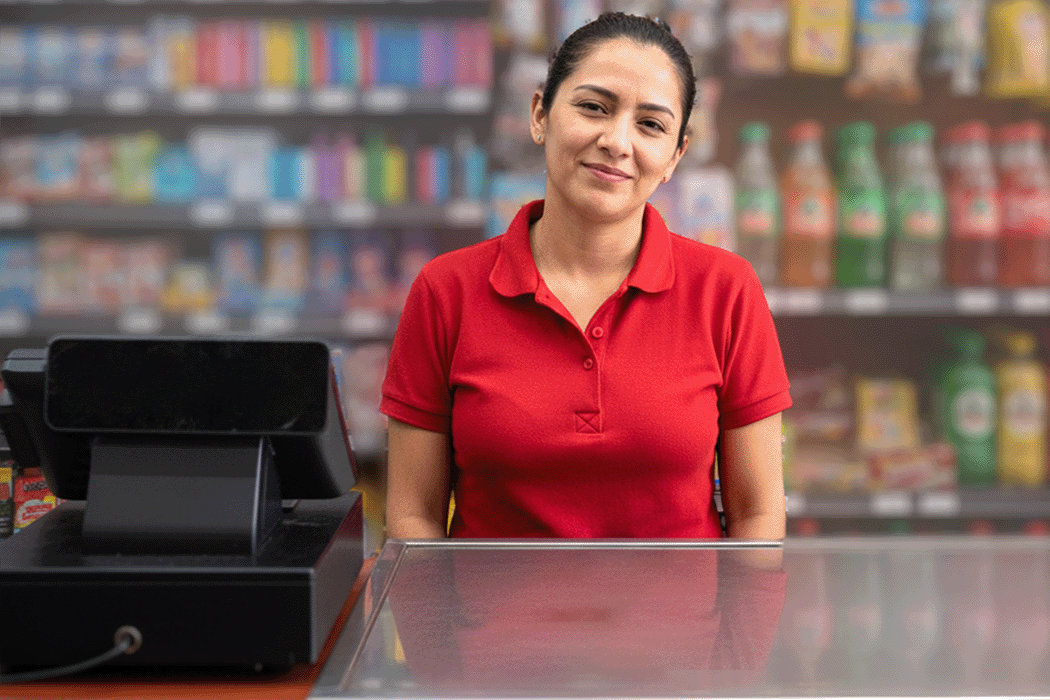
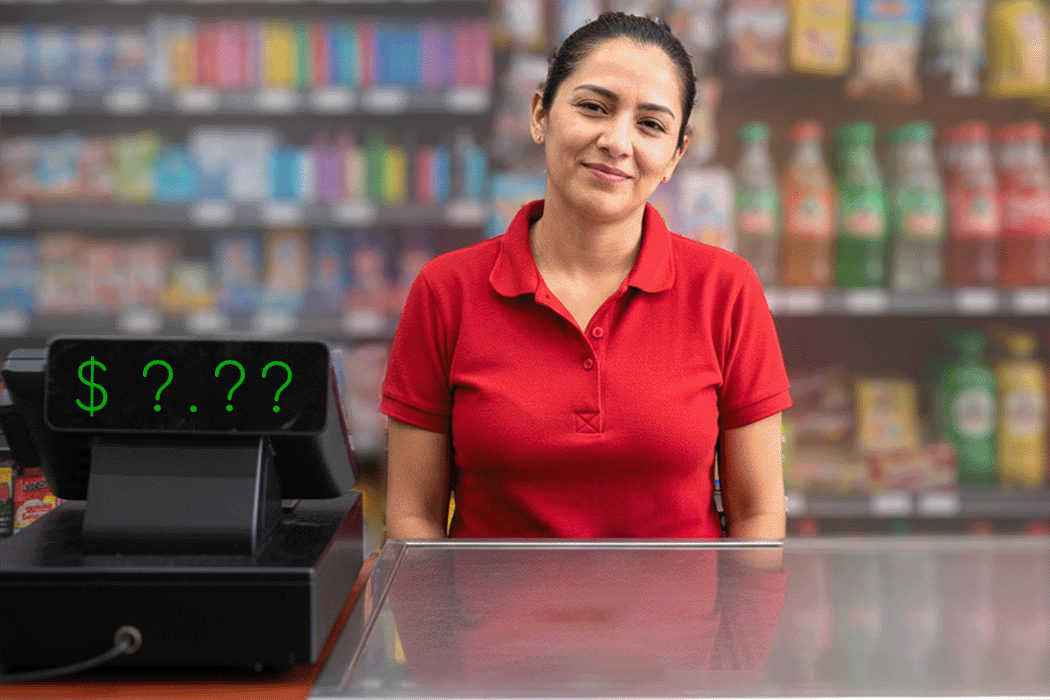
fixes and add analytics

diff --git a/components/games/ShoppingGame.js b/components/games/ShoppingGame.js
@@ -190,7 +190,8 @@ export default function ShoppingGame({ game, onComplete }) {
       const priceWords = priceToSpanishWords(price);
       const priceText = `cuesta ${priceWords}`;
       // Use the woman voice model specifically for the shopping game
-      await playTTS(priceText, process.env.NEXT_PUBLIC_DEEPGRAM_VOICE_WOMAN);
+      const womanVoice = process.env.NEXT_PUBLIC_DEEPGRAM_VOICE_WOMAN || "aura-2-estrella-es";
+      await playTTS(priceText, womanVoice);
     } catch (error) {
       console.error('TTS failed, using fallback:', error);
       const priceWords = priceToSpanishWords(price);
@@ -264,9 +265,9 @@ export default function ShoppingGame({ game, onComplete }) {
   // Show start screen if user hasn't interacted yet
   if (!hasUserInteracted) {
     return (
-      <div className="min-h-screen bg-gray-50 flex justify-center p-4 pt-8">
+      <div className="bg-gray-50 flex justify-center p-4 pt-8">
         <div className="max-w-4xl w-full flex justify-center">
-          <div className="bg-white rounded-2xl shadow-xl overflow-hidden w-3/4">
+          <div className="w-3/4">
             {/* Image Area with Rounded Corners */}
             <div className="relative w-full aspect-[3/2] bg-gray-100 overflow-hidden rounded-2xl shadow-xl">
               <div className="absolute inset-0">
@@ -293,11 +294,9 @@ export default function ShoppingGame({ game, onComplete }) {
                 </motion.div>
               )}
               
-            </div>
-
-            {/* Start Screen Overlay */}
-            <div className="absolute inset-0 bg-white/80 backdrop-blur-sm flex items-center justify-center rounded-2xl">
-              <div className="text-center space-y-4 max-w-sm mx-4">
+              {/* Start Screen Overlay */}
+              <div className="absolute inset-0 bg-white/80 backdrop-blur-sm flex items-center justify-center rounded-2xl min-h-full">
+              <div className="text-center space-y-4 max-w-sm mx-4 flex flex-col justify-center">
                 <div>
                   <h2 className="text-2xl font-bold text-gray-800 mb-2">
                     Tienda Checkout - Price Listening
@@ -322,6 +321,7 @@ export default function ShoppingGame({ game, onComplete }) {
                   <Volume2 className="w-4 h-4 mr-2" />
                   Start Game
                 </Button>
+              </div>
               </div>
             </div>
           </div>
@@ -356,7 +356,7 @@ export default function ShoppingGame({ game, onComplete }) {
   }
 
   return (
-    <div className="min-h-screen bg-gray-50 flex justify-center p-4 pt-8">
+    <div className="bg-gray-50 flex justify-center p-4 pt-8">
       <div className="max-w-4xl w-full flex flex-col items-center">
         {/* Progress Bar */}
         <div className="mb-6 w-full max-w-3xl">
@@ -373,7 +373,7 @@ export default function ShoppingGame({ game, onComplete }) {
         </div>
 
         {/* Game Area */}
-        <div className="bg-white rounded-2xl shadow-xl overflow-hidden w-3/4">
+        <div className="relative bg-white rounded-2xl shadow-xl overflow-hidden w-3/4">
           {/* Image Area with Rounded Corners */}
           <div className="relative w-full aspect-[3/2] bg-gray-100 overflow-hidden rounded-2xl">
             <div className="absolute inset-0">
@@ -401,7 +401,7 @@ export default function ShoppingGame({ game, onComplete }) {
             )}
             
             {/* LCD Display */}
-            <div 
+            {/* <div 
               className="absolute text-green-400 font-mono 
               text-3xl font-bold flex items-center justify-center
               top-[51%] left-[9%] rotate-1"
@@ -413,7 +413,7 @@ export default function ShoppingGame({ game, onComplete }) {
               ) : (
                 <span className="text-green-300">$ ?.??</span>
               )}
-            </div>
+            </div> */}
 
             {/* Replay Audio Button - Top Right Overlay */}
             <div className="absolute top-4 right-4 z-20">

diff --git a/components/verbs/CondensedConjugationDisplay.tsx b/components/verbs/CondensedConjugationDisplay.tsx
@@ -110,7 +110,20 @@ export default function CondensedConjugationDisplay({
     }
   };
 
-  // Get conjugations for selected mood
+  // Define the tense order as specified - using actual database tense names
+  const tenseOrder = [
+    'Past Perfect',
+    'Preterite', // This is "Past Simple" in the database
+    'Imperfect',
+    'Present Perfect',
+    'Present',
+    'Conditional',
+    'Conditional Perfect',
+    'Future',
+    'Future Perfect'
+  ];
+
+  // Get conjugations for selected mood with proper ordering
   const getConjugationsForMood = (moodId: string) => {
     if (moodId === 'Otros') {
       // For "Other" mood, show gerund and past participle
@@ -137,7 +150,29 @@ export default function CondensedConjugationDisplay({
         }
       ];
     }
-    return verb.conjugations.filter(conj => conj.mood === moodId);
+    
+    const conjugations = verb.conjugations.filter(conj => 
+      conj.mood === moodId && 
+      conj.tense_english !== 'Preterite (Archaic)' // Never show Preterite (Archaic)
+    );
+    
+    // Sort conjugations according to the specified order
+    return conjugations.sort((a, b) => {
+      const aIndex = tenseOrder.indexOf(a.tense_english);
+      const bIndex = tenseOrder.indexOf(b.tense_english);
+      
+      // If both tenses are in the order array, sort by their position
+      if (aIndex !== -1 && bIndex !== -1) {
+        return aIndex - bIndex;
+      }
+      
+      // If only one is in the order array, prioritize it
+      if (aIndex !== -1) return -1;
+      if (bIndex !== -1) return 1;
+      
+      // If neither is in the order array, maintain original order
+      return 0;
+    });
   };
 
   const currentConjugations = getConjugationsForMood(selectedMood);

diff --git a/app/verbs/page.js b/app/verbs/page.js
@@ -191,12 +191,12 @@ function DefaultMainContent({ t }) {
     { tense: "Past Simple", text: "I ate", color: "past", icon: Calendar },
     { tense: "Imperfect", text: "I was eating", color: "past", icon: CalendarSync },
     { tense: "Present Perfect", text: "I have eaten", color: "present", icon: Circle },
-    // { tense: "Present Continuous", text: "I am eating", position: "top" },
     { tense: "Present Simple", text: "I eat", color: "present", icon: CircleDot },
     { tense: "Conditional", text: "I would eat", color: "conditional", icon: Orbit },
     { tense: "Conditional Perfect", text: "I would have eaten", color: "conditional", icon: Orbit },
     { tense: "Future Simple", text: "I will eat", color: "future", icon: Sunset },
     { tense: "Future Perfect", text: "I will have eaten", color: "future", icon: Sunset },
+    // { tense: "Present Continuous", text: "I am eating", position: "top" },
     // { tense: "Future Continuous", text: "I will be eating", position: "top" },
   ]
 

diff --git a/components/Layout.js b/components/Layout.js
@@ -20,7 +20,7 @@ export default function Layout({ children, currentPageName, user }) {
   ];
 
   return (
-    <div className="min-h-full bg-gradient-to-br from-orange-50 via-white to-teal-50">
+    <div className="min-h-full bg-gradient-to-br from-orange-50 via-white to-teal-50 flex flex-col">
       <style>
         {`
           :root {
@@ -35,7 +35,7 @@ export default function Layout({ children, currentPageName, user }) {
       </style>
       
       {/* Desktop Layout */}
-      <div className="hidden md:flex md:h-screen md:flex-col">
+      <div className="hidden md:flex md:flex-col flex-1">
         {/* Top Navigation Bar */}
         <TopNavigation user={user} />
         
@@ -58,7 +58,7 @@ export default function Layout({ children, currentPageName, user }) {
       </div>
 
       {/* Mobile Layout */}
-      <div className="md:hidden">
+      <div className="md:hidden flex flex-col flex-1">
         {/* Mobile Header */}
         <TopNavigation user={user} />
 

diff --git a/instrumentation-client.ts b/instrumentation-client.ts
@@ -1,0 +1,6 @@
+import posthog from 'posthog-js'
+
+posthog.init(process.env.NEXT_PUBLIC_POSTHOG_KEY!, {
+    api_host: process.env.NEXT_PUBLIC_POSTHOG_HOST!,
+    defaults: '2025-05-24'
+});
